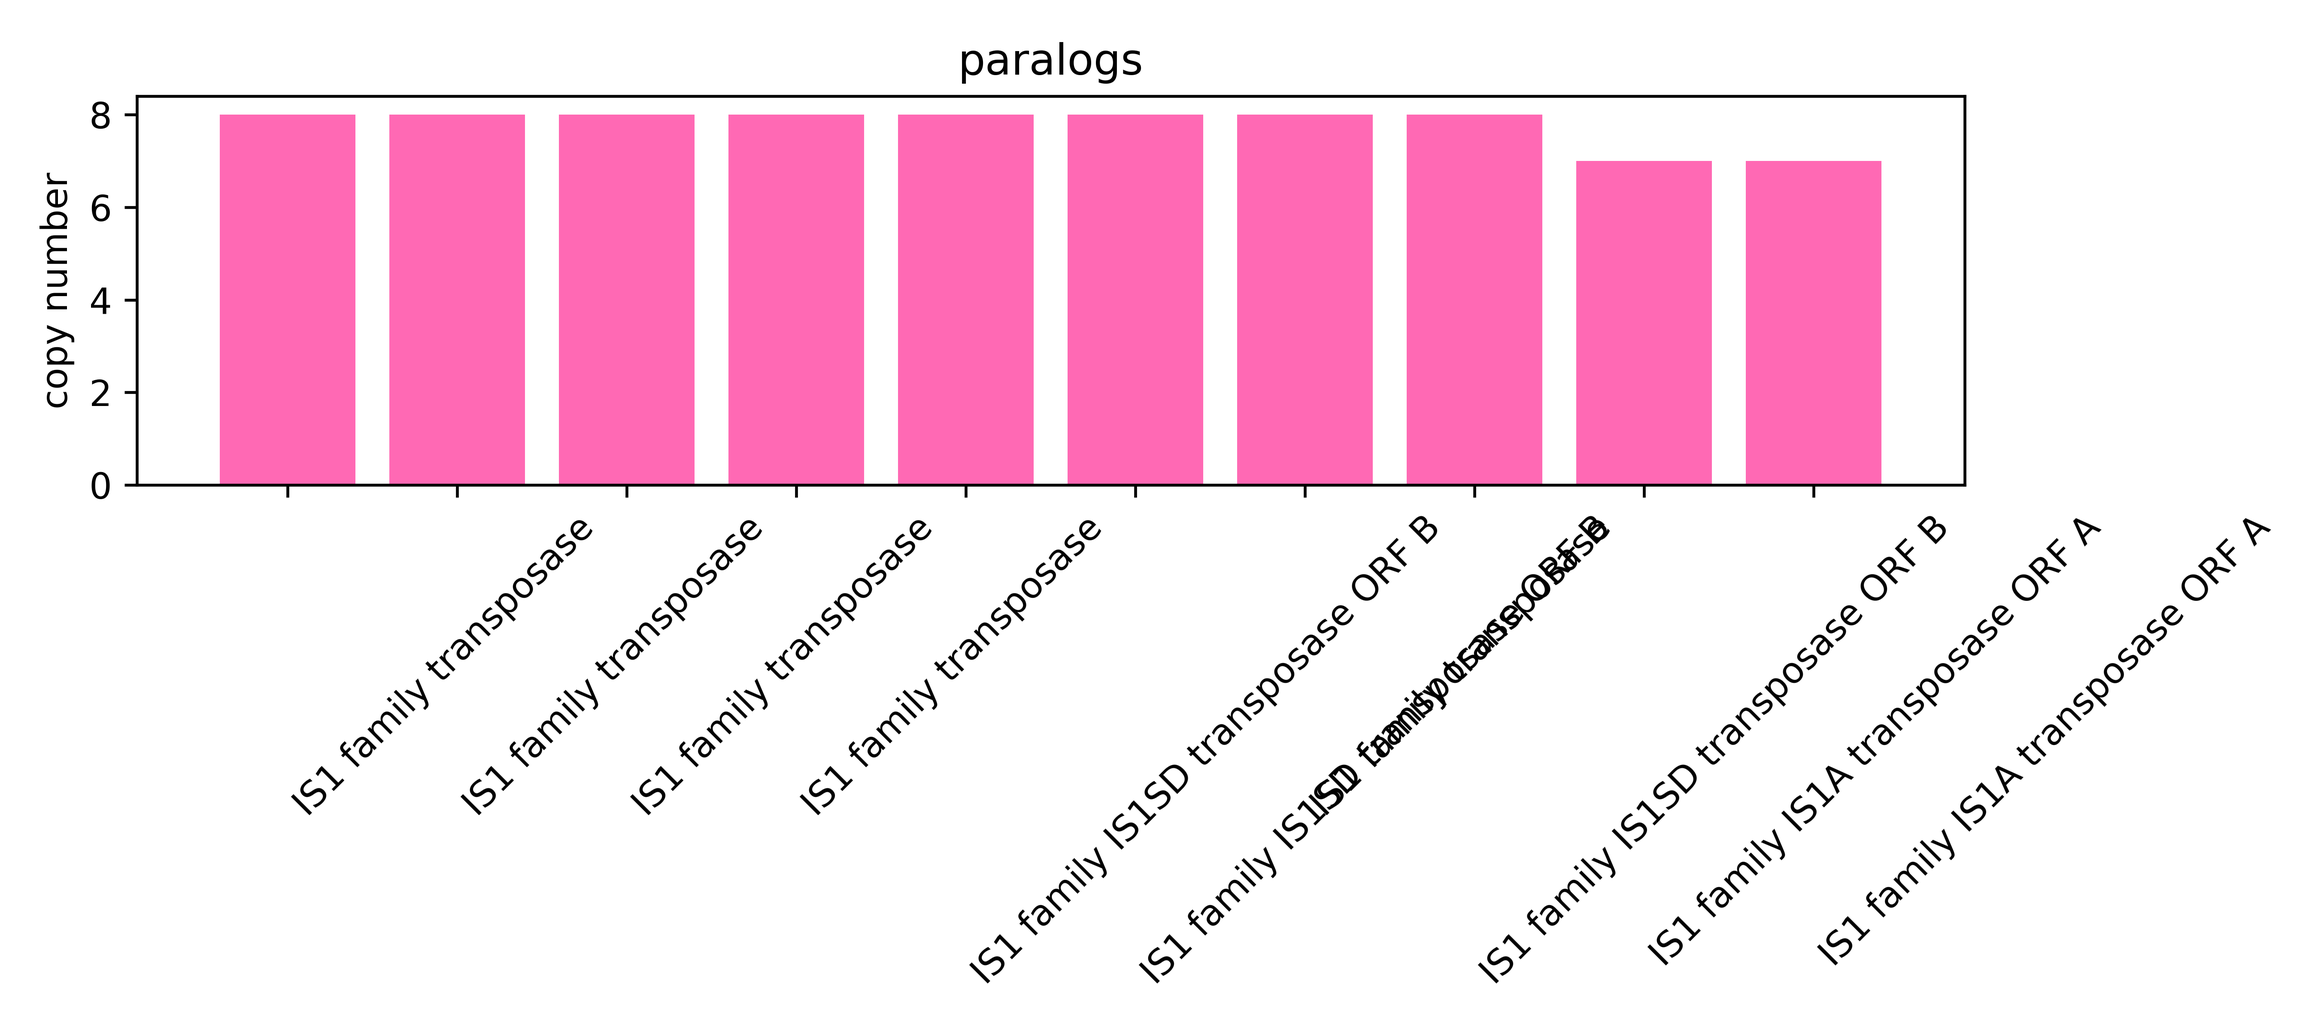
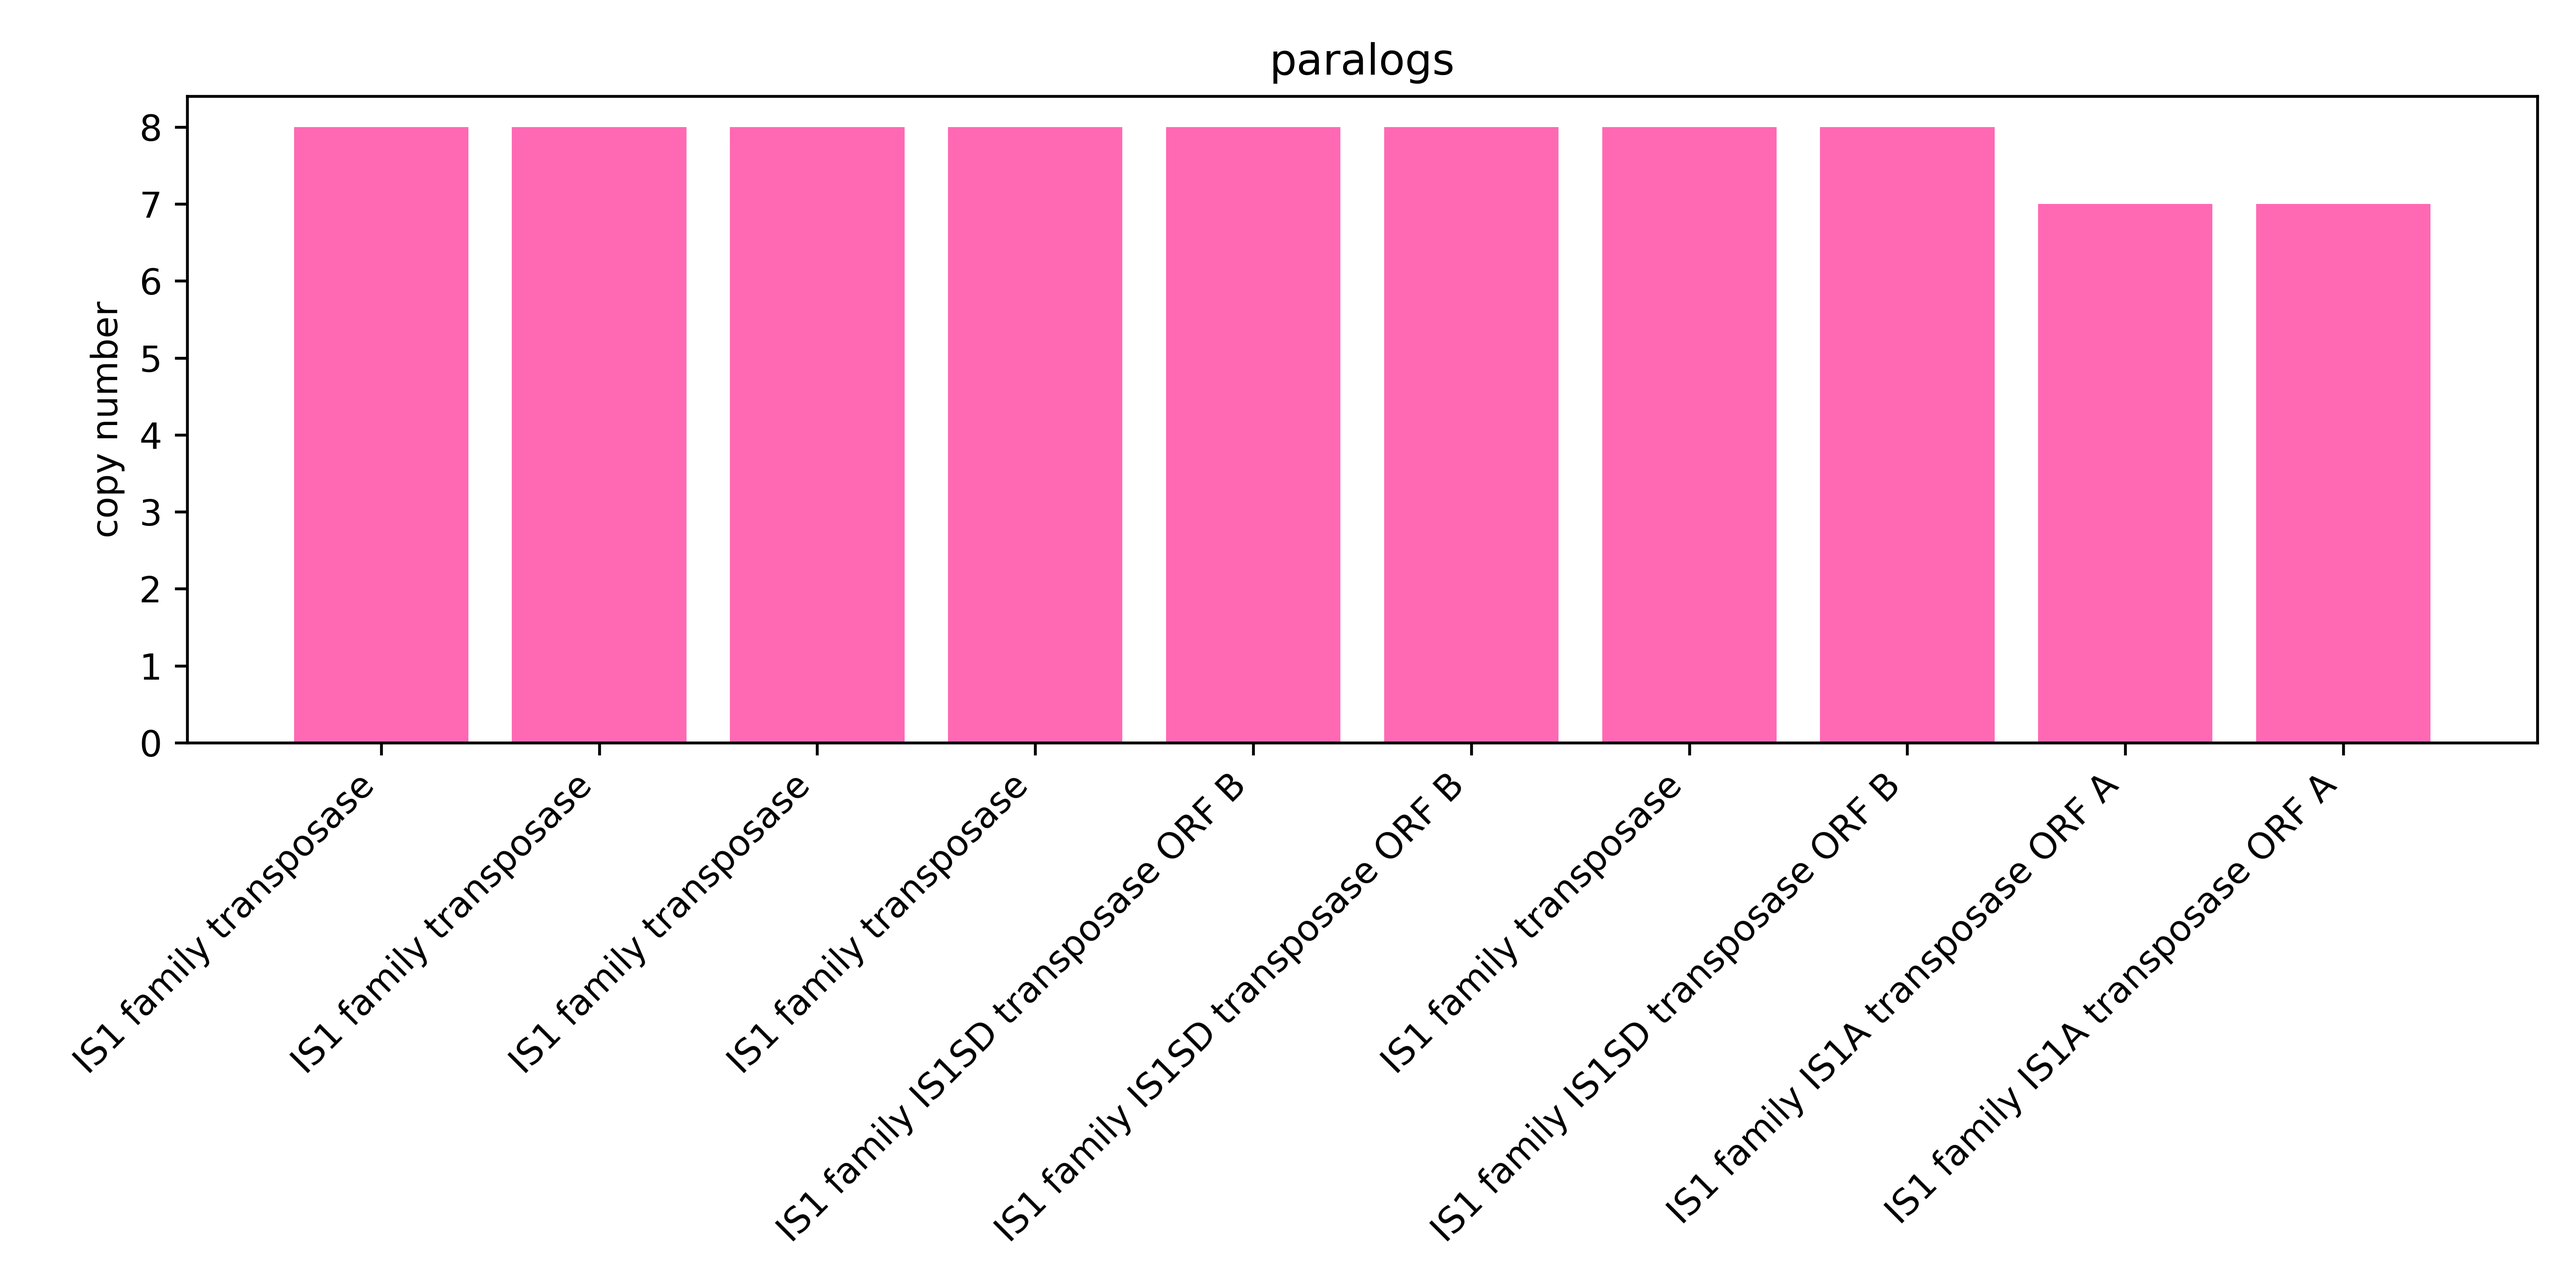
chganged file size

diff --git a/Project1/paralogs.py b/Project1/paralogs.py
@@ -83,9 +83,9 @@ def plot_top_paralogs(df, out_png, top_n=10):
         for _, row in top.iterrows()
     ]
 
-    plt.figure(figsize=(9, 4))
+    plt.figure(figsize=(10, 5))
     plt.bar(range(len(top)), top["copynumber"], color = "hotpink")
-    plt.xticks(range(len(top)), labels, rotation=45, ha="left")
+    plt.xticks(range(len(top)), labels, rotation=45, ha="right")
     plt.ylabel("copy number")
     plt.title("paralogs")
     plt.tight_layout()
